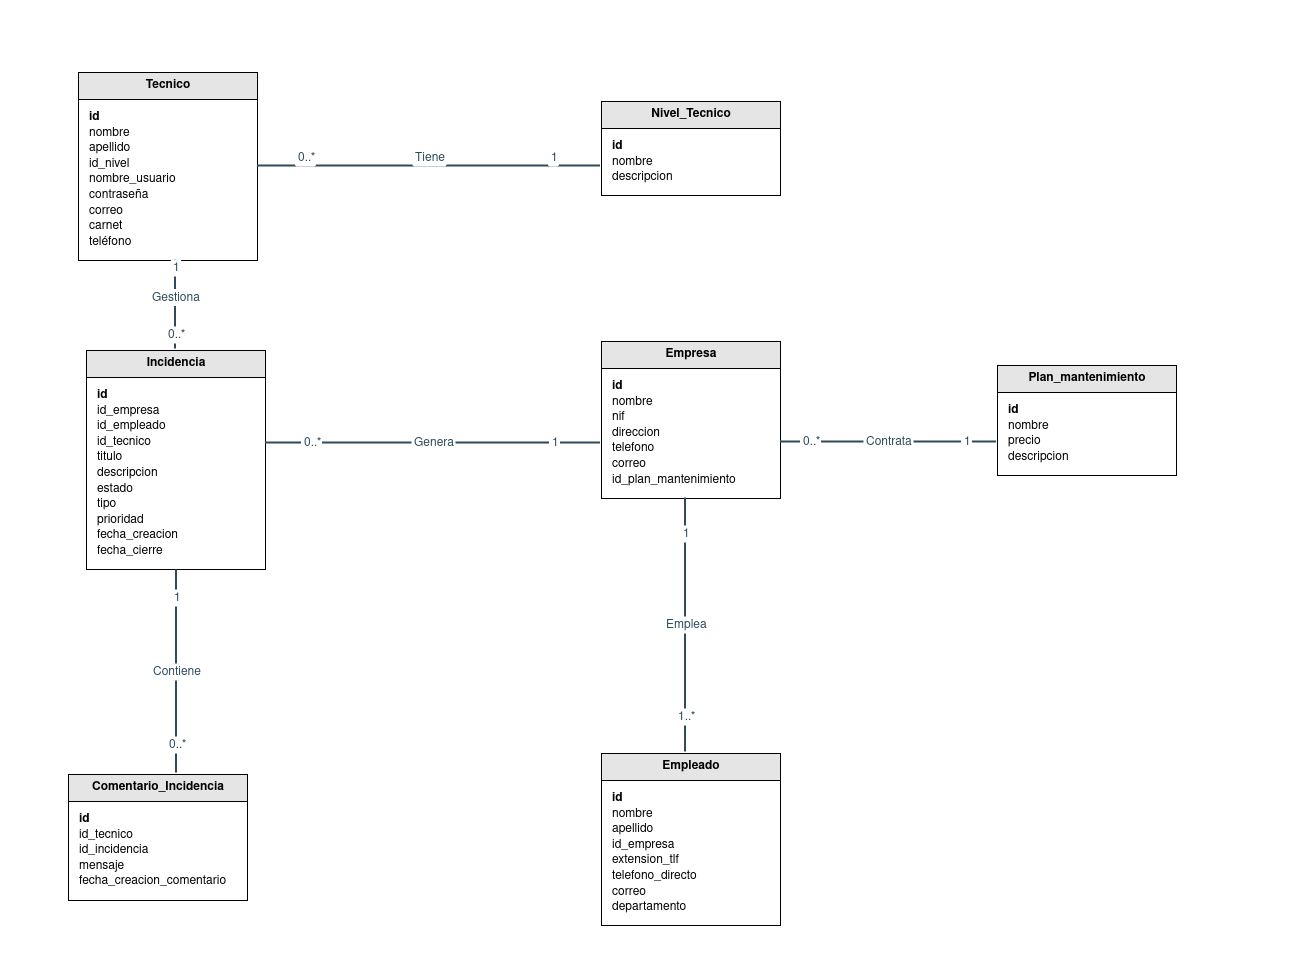
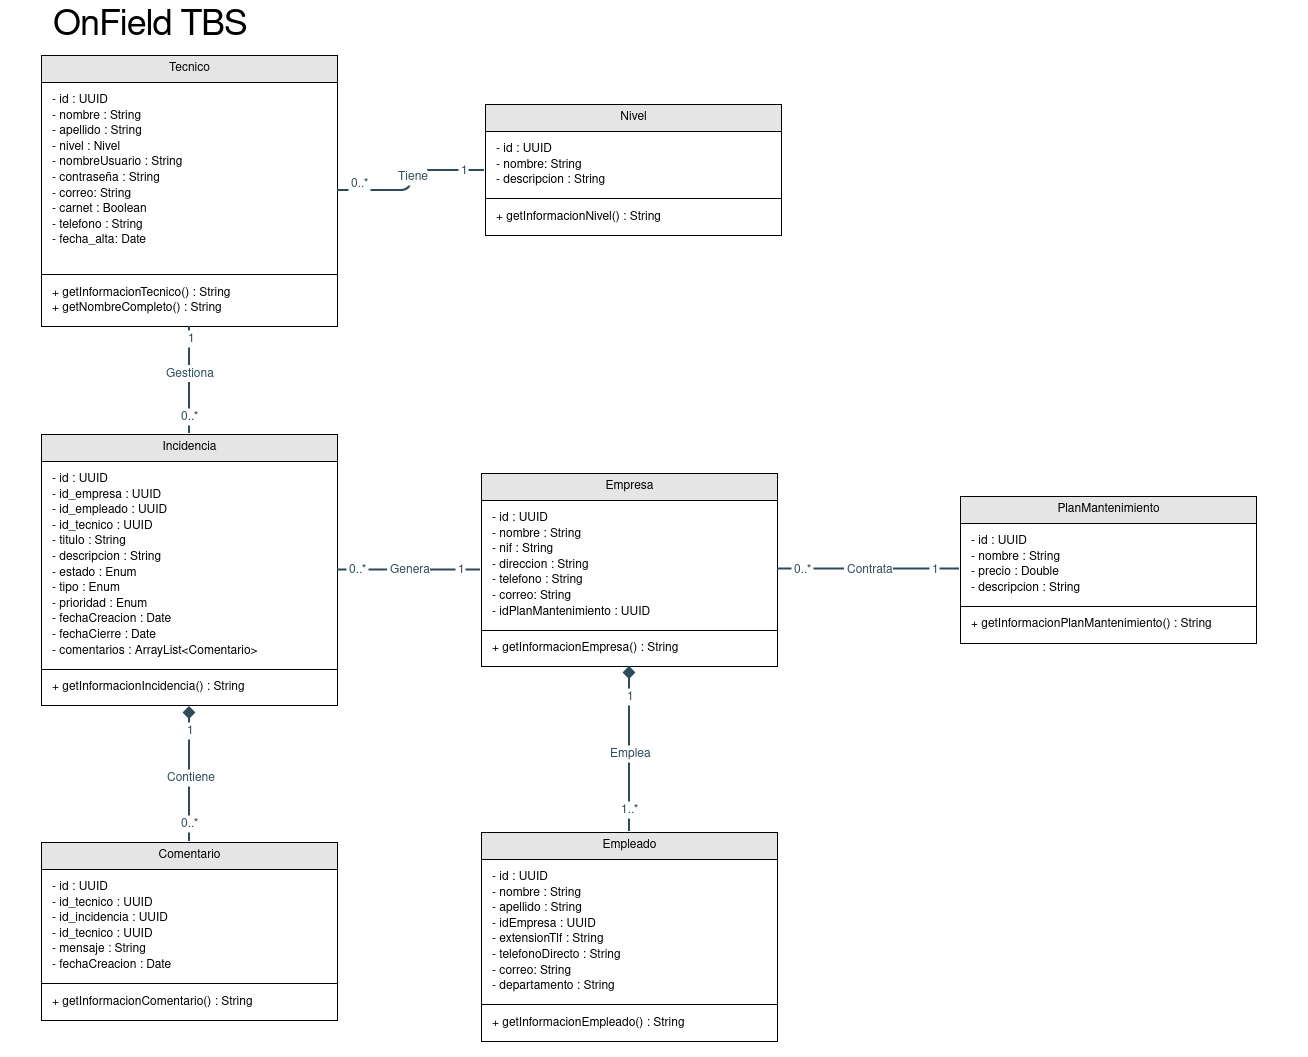
Añadido wireframe, actualizado resto de diagramas

diff --git a/OnFieldTBS/src/main/java/org/proyectofinal/OnFieldTBS/models/Empleado.java b/OnFieldTBS/src/main/java/org/proyectofinal/OnFieldTBS/models/Empleado.java
@@ -5,6 +5,7 @@ import lombok.Data;
 import lombok.NoArgsConstructor;
 
 import javax.persistence.*;
+import java.time.LocalDateTime;
 import java.util.Set;
 import java.util.UUID;
 
@@ -22,6 +23,7 @@ public class Empleado {
     private String ext_telefono;
     private String telefono_directo;
     private String correo;
+    private LocalDateTime fecha_alta;
 
     @ManyToOne
     @JoinColumn(name = "id_empresa")
